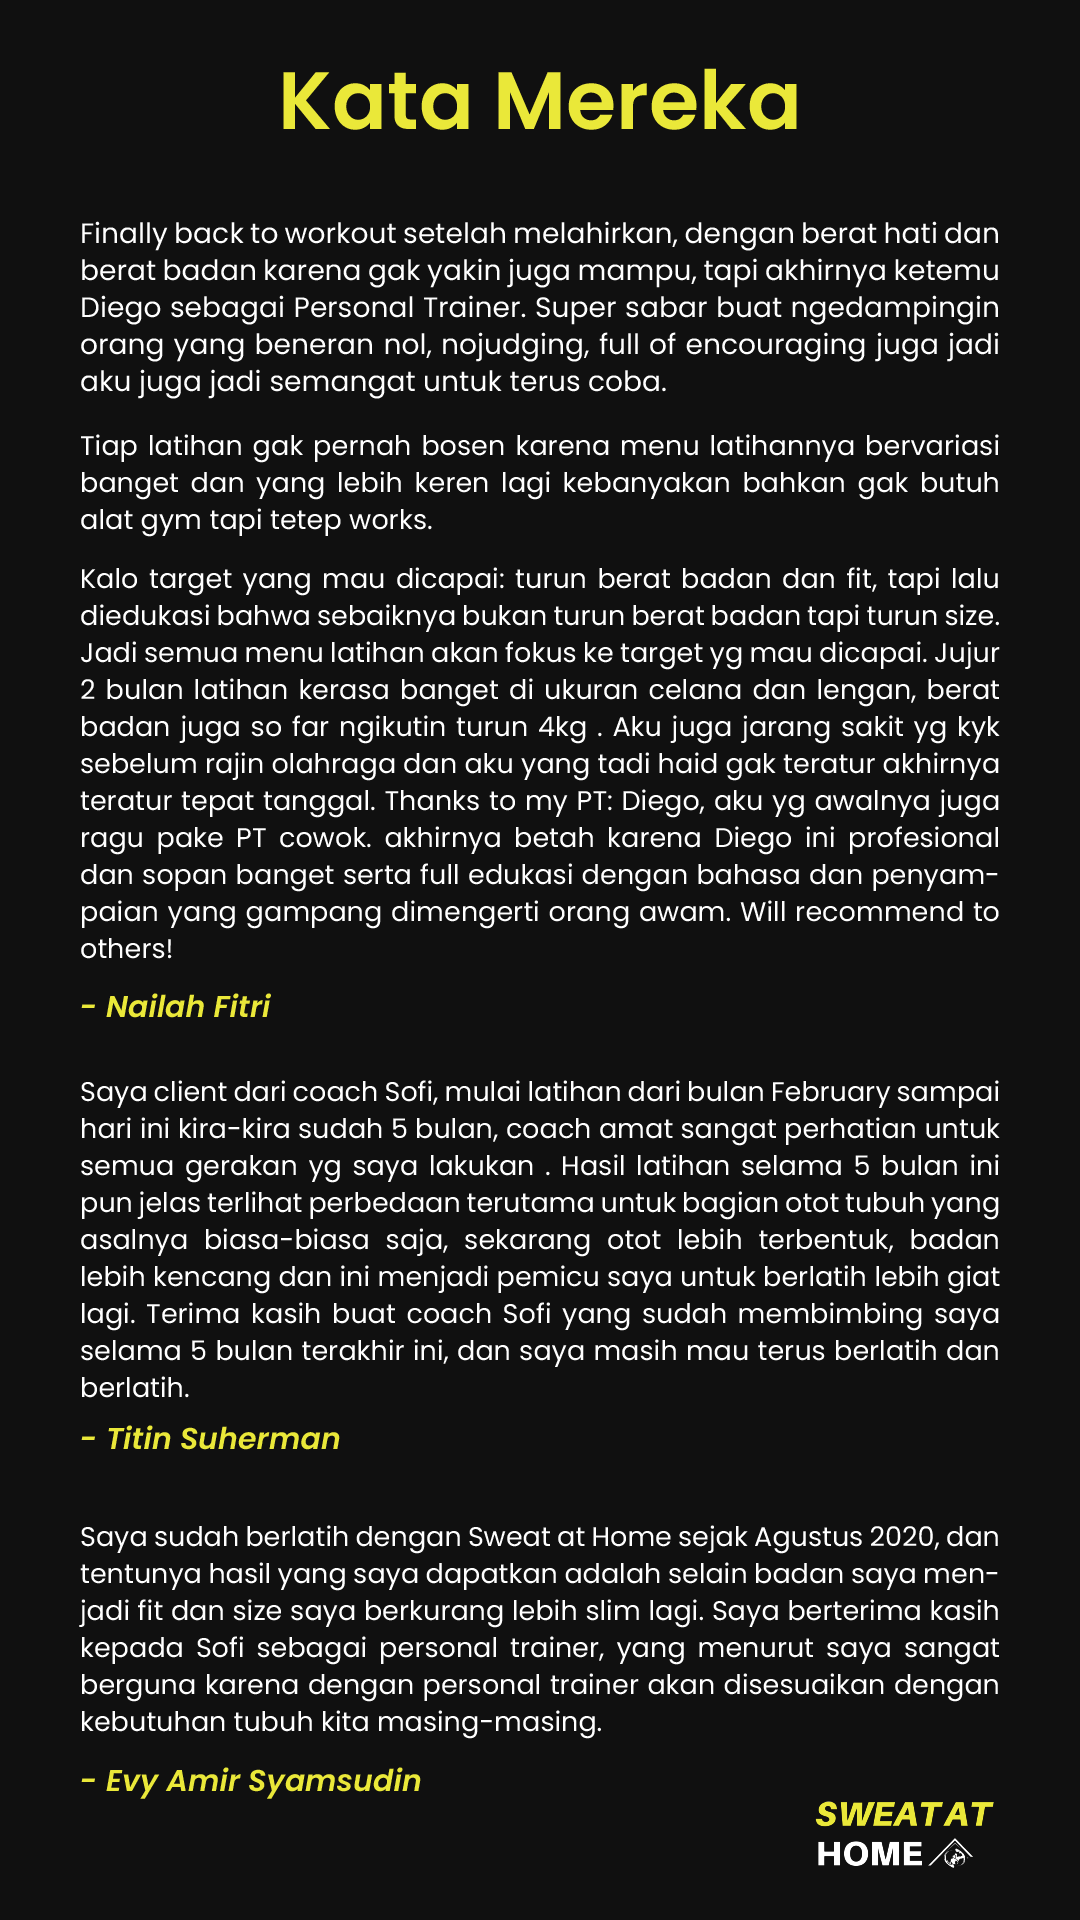
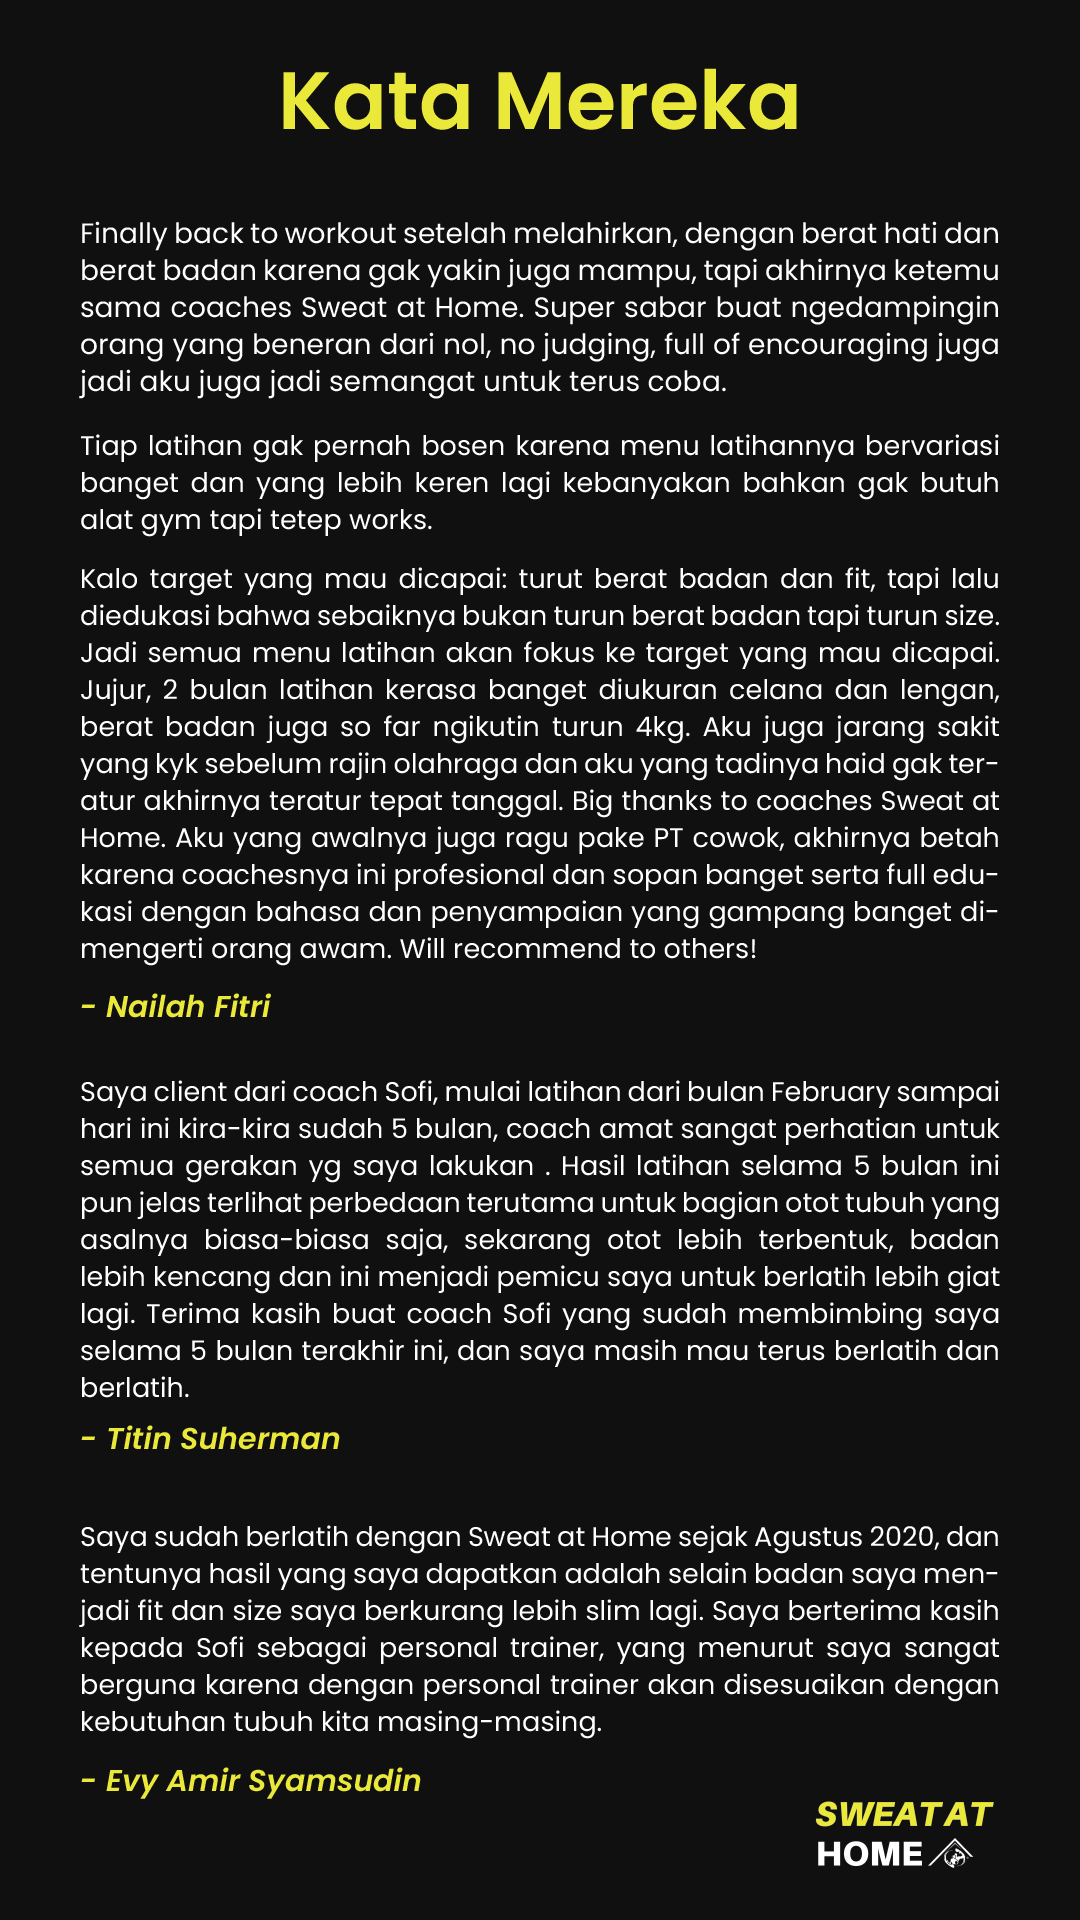
[wording] fix typos

Changed region(s): [[0.0611, 0.2812, 0.9167, 0.5], [0.0611, 0.1562, 0.9167, 0.2188]]

diff --git a/src/modules/ourteam/OurTeam.tsx b/src/modules/ourteam/OurTeam.tsx
@@ -50,8 +50,9 @@ export const OurTeam = (): JSX.Element => {
                                     <div className="person__position">
                                         <ul>
                                             <li>Bachelor of Arts in Communications</li>
-                                            <li>Master of Communications Certified</li>
-                                            <li>Sports Nutrition Coach Content Briefer</li>
+                                            <li>Master of Communication</li>
+                                            <li>Certified Sports Nutrition Coach</li>
+                                            <li>Content Briefer</li>
                                             <li>Business Development</li>
                                         </ul>
                                     </div>
